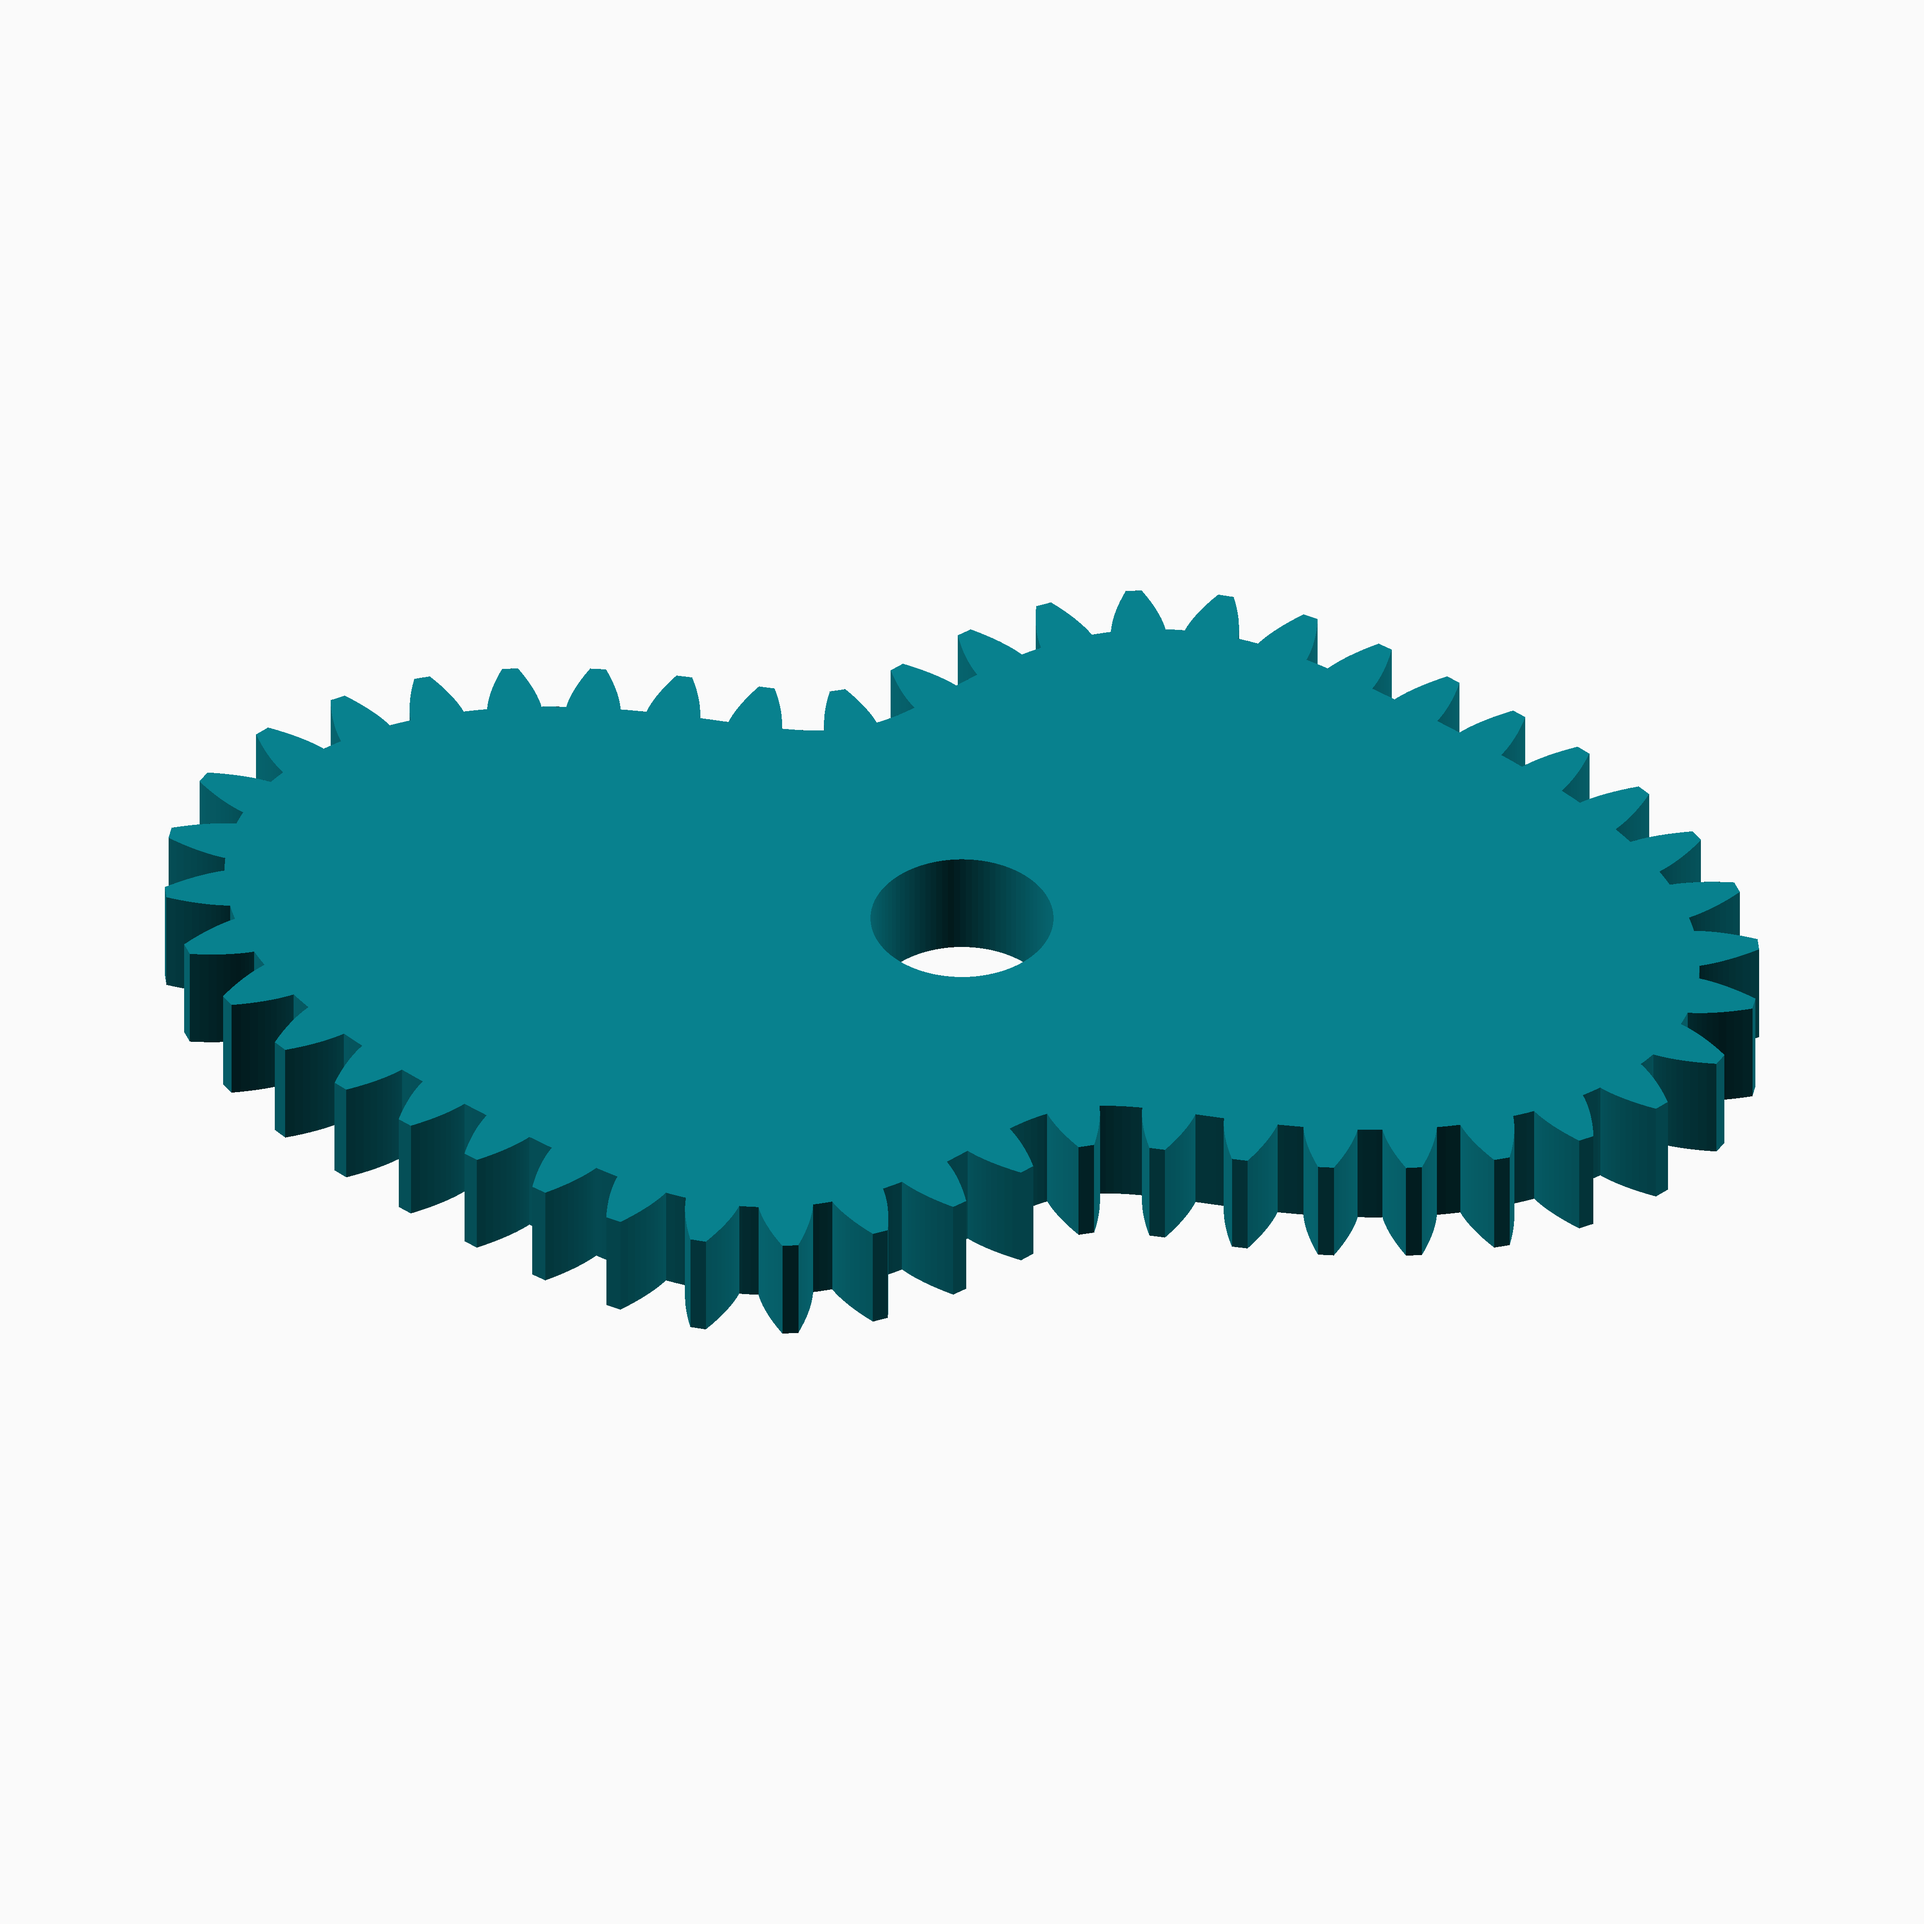
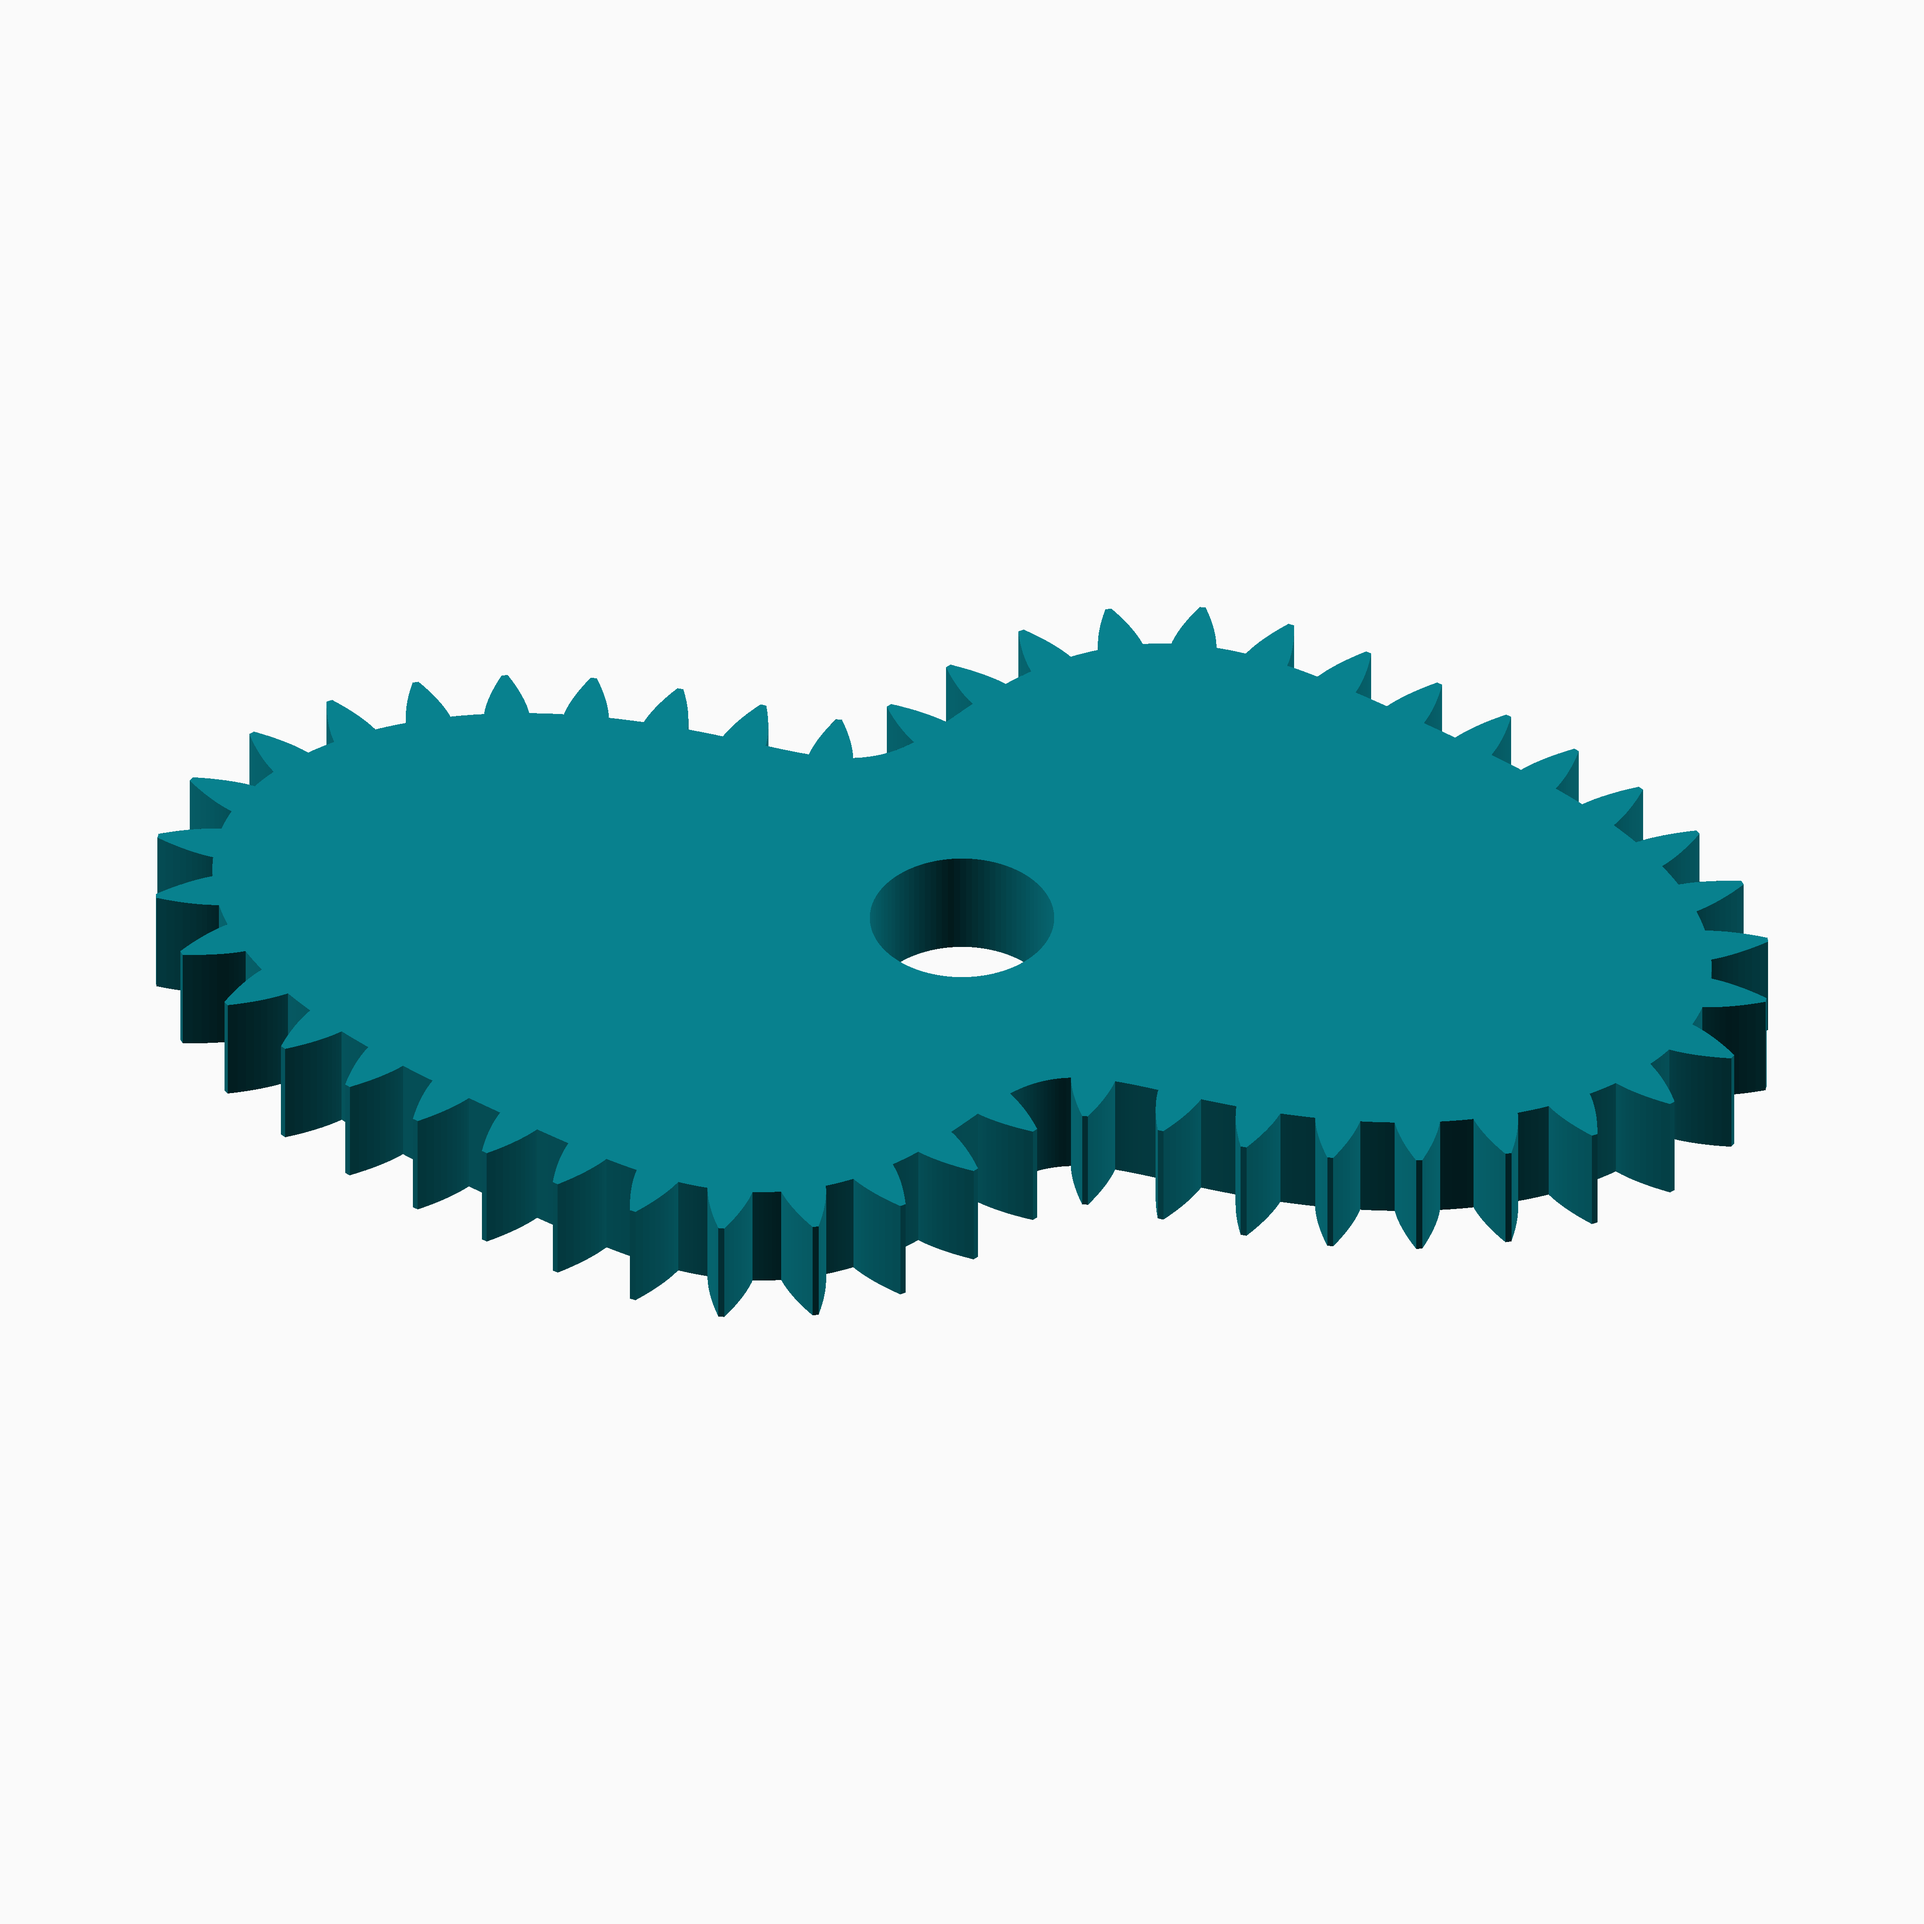
examples: synchronize Temple Fay butterfly pairs

diff --git a/examples/README.md b/examples/README.md
@@ -475,7 +475,7 @@ tooth scale or body proportions. Spiral pairs remain static references.
 
 > [`temple_fay_body_alternative`](#function-temple_fay_body_alternative): Temple Fay alternative: The contrasting family controls shown as a body.
 
-> [`temple_fay_curve_gear_alternative`](#function-temple_fay_curve_gear_alternative): Temple Fay alternative: Wing 0.32 and fold 0.12 restore a pronounced butterfly-like standalone outline. The pair uses a reduced collision-free profile.
+> [`temple_fay_curve_gear_alternative`](#function-temple_fay_curve_gear_alternative): Temple Fay extreme butterfly alternative: Wing 0.38 and fold 0.14 create a deep waist and broad lobes.
 
 > [`temple_fay_curve_gear_pair_alternative`](#function-temple_fay_curve_gear_pair_alternative): Temple Fay alternative pair: The alternative curve and its mate meshed in contact for inspection.
 
@@ -4777,7 +4777,7 @@ Back to [module description](#module-executable-examples).
 
 
 Source: [`functions/temple_fay/curve_gear_temple_fay_alternative.scad`](functions/temple_fay/curve_gear_temple_fay_alternative.scad)
-Standalone views use wing 0.32 and fold 0.12 for a pronounced butterfly-like outline. The meshed pair retains wing 0.05 and fold 0.01, the validated collision-free fixture.
+All alternative views use wing 0.38 and fold 0.14 for an extreme butterfly outline.
 
 **Parameters:**
 
@@ -4797,7 +4797,7 @@ Back to [module description](#module-executable-examples).
 
 
 Source: [`functions/temple_fay/curve_gear_temple_fay_pair_alternative.scad`](functions/temple_fay/curve_gear_temple_fay_pair_alternative.scad)
-The meshed alternative uses wing 0.05 and fold 0.01, the validated collision-free pair fixture. Its standalone comparison shows the stronger wing 0.32 and fold 0.12 profile.
+This pair uses the same extreme wing 0.38 and fold 0.14 profile as all alternative gear examples.
 
 **Parameters:**
 

diff --git a/docs/temple_fay.md b/docs/temple_fay.md
@@ -53,7 +53,7 @@ The module `Temple Fay` defines the following functions.
 | [![temple fay example preview](../images/functions/temple_fay/curve_gear_temple_fay.png)](../images/functions/temple_fay/curve_gear_temple_fay.png) | [![Temple Fay gear alternative](../images/functions/temple_fay/curve_gear_temple_fay_alternative.png)](../images/functions/temple_fay/curve_gear_temple_fay_alternative.png) |
 
 
-The default profile uses wing 0.18 and fold 0.05. The example catalogue also shows a stronger standalone winged profile and a reduced pair fixture that passes the engaged-pair collision checks.
+The main examples use the default wing 0.18 and fold 0.05 profile. Alternative standalone and pair examples share the extreme wing 0.38 and fold 0.14 profile.
 
 
 **Parameters:**
